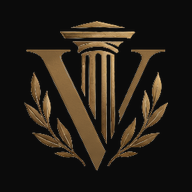
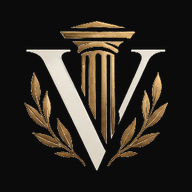
feat(brend): tamna verzija logoa — V i slova u boji kosti, stub i lovor u zlatu
Odluka osnivača 2026-10-21: potpuno zlatna tamna verzija je odbijena. Linije su
iste; menjaju se samo boje (meka težina, bez tvrdih ivica). Ikone prate tamnu verziju.
Stara aplikacija: logo u bočnoj traci staje u traku (42px, manji razmak).

diff --git a/frontend-v2-ng/src/app.css b/frontend-v2-ng/src/app.css
@@ -71,7 +71,7 @@ svg .fill { fill: currentColor; stroke: none; }
 /* Kanonski logo (Website V3, odluka osnivača 2026-10-21): logo A2 izdvojen 1:1 iz slike osnivača.
  * Datoteke se prikazuju bez ikakve obrade — bez filtera, providnosti, senke,
  * maske, isecanja ili izobličenja; samo visina, širina sledi izvornu razmeru.
- * Tamna tema: ceo znak u zlatu (kao tamna varijanta na istoj slici). Svetla tema:
+ * Tamna tema: V i slova u boji kosti, stub i lovor u zlatu. Svetla tema:
  * originalne boje — crno V i slova, zlatni stub i lovor. Bira se samo CSS-om. */
 .wordmark__logo { display: block; flex: none; width: auto; }
 .wordmark__logo--tamna { height: 46px; }

diff --git a/scripts/brand/izdvoji_logo.py b/scripts/brand/izdvoji_logo.py
@@ -7,8 +7,7 @@ Izlaz: vindex-logo-svetla.png i vindex-logo-tamna.png (357x305, providna pozadin
 vindex-znak-tamna.png (samo znak, za ikone).
 
 Svetla verzija: originalne boje (crno V i slova, zlatni stub i lovor) na providnoj podlozi.
-Tamna verzija: isti crtež; crni delovi (V i VINDEX) dobijaju zlatni ton kao u tamnoj
-varijanti na istoj slici (gornji desni kadar A2), zlatni delovi ostaju isti.
+Tamna verzija: isti crtež; V i VINDEX u boji kosti, stub i lovor u zlatu (malo svetlijem).
 """
 import sys
 from pathlib import Path
@@ -44,19 +43,16 @@ def sacuvaj(boje, ime):
 
 sacuvaj(fg, "vindex-logo-svetla.png")
 
-# Tamna: crni delovi (niska zasićenost i niska svetlina) → zlato. Zlato iz samog crteža:
-# srednja boja zlatnih piksela (zasićenih), pa se senčenje crnog prenosi kao svetlina zlata.
+# Tamna (odluka osnivača 2026-10-21): linije iste, menjaju se samo boje. V i slova
+# dobijaju boju kosti sa senčenjem originala; stub i lovor ostaju zlatni, podignuti 15%
+# da na crnoj imaju istu snagu kao na beloj. Meka težina (bez tvrde granice) čuva ivice.
 sv = fg.mean(axis=2)
 zas = fg.max(axis=2) - fg.min(axis=2)
-zlatni = (a > 0.9) & (zas > 40)
-zlato = np.median(fg[zlatni], axis=0)
-print("zlato", zlato)
-crno = (zas < 40) & (sv < 120)
-t = np.clip(sv / 120.0, 0, 1)[..., None]           # 0 = najtamnije crno
-svetlo_zlato = np.minimum(zlato * 1.18, 255)
-tamno_zlato = zlato * 0.78
-preslikano = tamno_zlato + (svetlo_zlato - tamno_zlato) * t
-tamna = np.where(crno[..., None], preslikano, fg)
+w = (np.clip((45 - zas) / 25, 0, 1) * np.clip((150 - sv) / 50, 0, 1))[..., None]
+t = np.clip(sv / 110, 0, 1)[..., None]
+KOST_TAMNA, KOST_SVETLA = np.array([214.0, 206, 190]), np.array([242.0, 237, 227])
+kost = KOST_TAMNA + (KOST_SVETLA - KOST_TAMNA) * t
+tamna = w * kost + (1 - w) * np.clip(fg * 1.15, 0, 255)
 sacuvaj(tamna, "vindex-logo-tamna.png")
 # Samo znak (redovi do praznog pojasa iznad slova), za favicon i ikonu aplikacije.
 red = np.where((a > 0).any(axis=1))[0]

diff --git a/tests/test_v2_ng_preview.py b/tests/test_v2_ng_preview.py
@@ -69,7 +69,7 @@ NEIZLOZENO = [
 # Website V3 (odluka osnivaca 2026-10-21): logo A2 izdvojen 1:1 iz slike osnivaca (scripts/brand/izdvoji_logo.py).
 # Stari NS003 fajlovi moraju vracati 404 (NEIZLOZENO).
 KANONSKI_LOGO = {
[3 lines of base64/hex data omitted]
 }
 NEPROMENJENO = ["/app", "/app-v2", "/sw.js", "/offline", "/static/vindex.js", "/static/sw.js", "/api/predmeti"]

diff --git a/tests/v2_ng_docker_rehearsal.py b/tests/v2_ng_docker_rehearsal.py
@@ -34,7 +34,7 @@ LAZNO = {
     "FOUNDER_EMAILS": "ci@example.com", "PORT": "8000",
 }
 KANONSKI_LOGO = {
[3 lines of base64/hex data omitted]
 }
 LEGACY = ["/health", "/", "/app", "/app-v2", "/sw.js", "/manifest.json", "/offline", "/static/vindex.js", "/static/sw.js", "/api/predmeti"]

diff --git a/tests/test_v2_ng_primary.py b/tests/test_v2_ng_primary.py
@@ -28,7 +28,7 @@ import pytest
 
 KOREN = Path(__file__).resolve().parent.parent
 NG = KOREN / "frontend-v2-ng"
[3 lines of base64/hex data omitted]
 
 POMOCNIK = r"""
